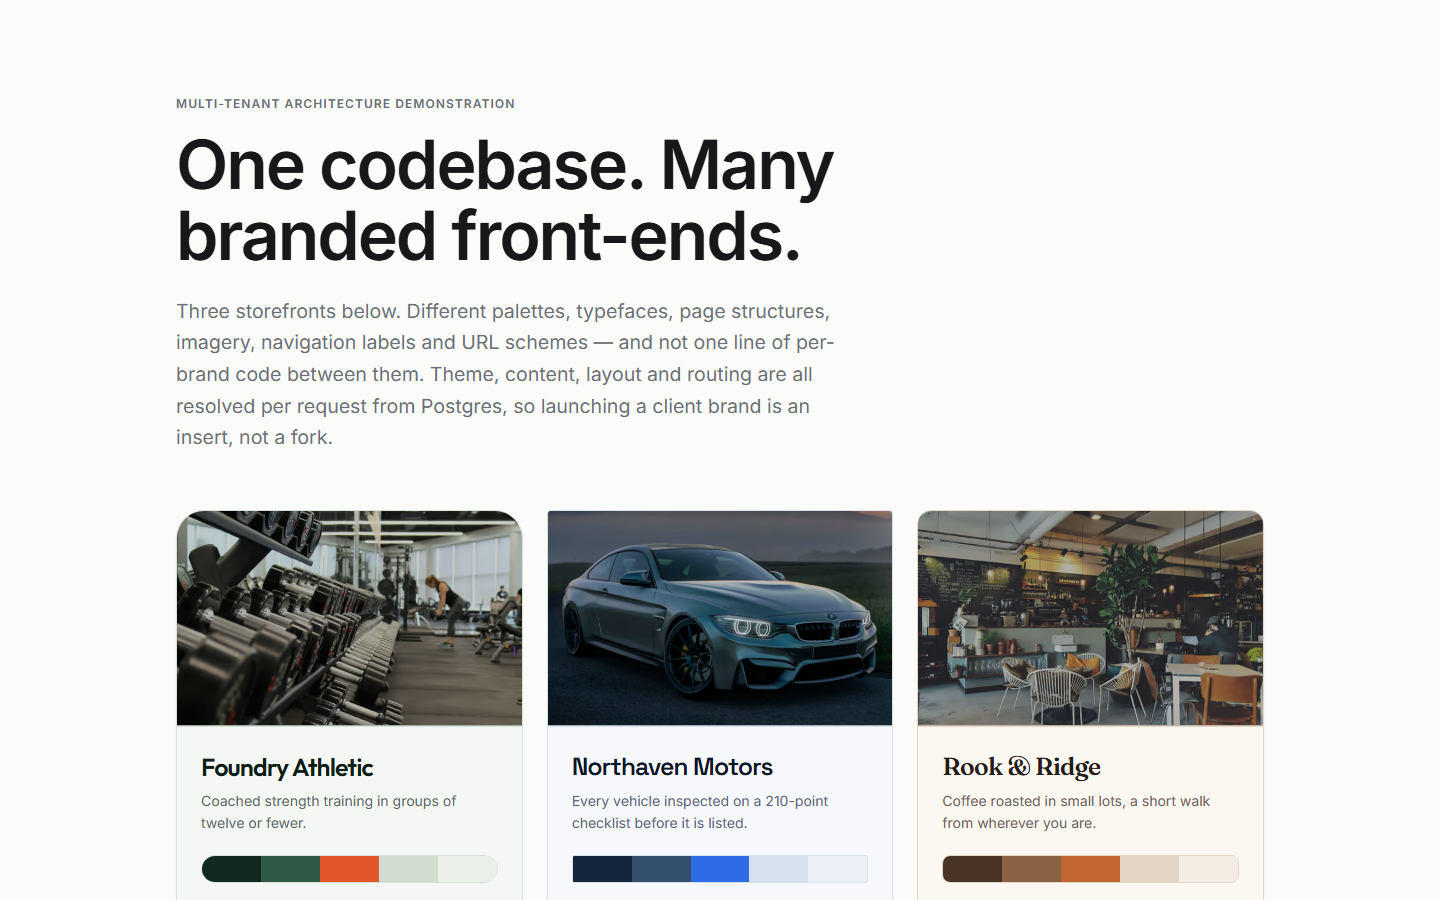
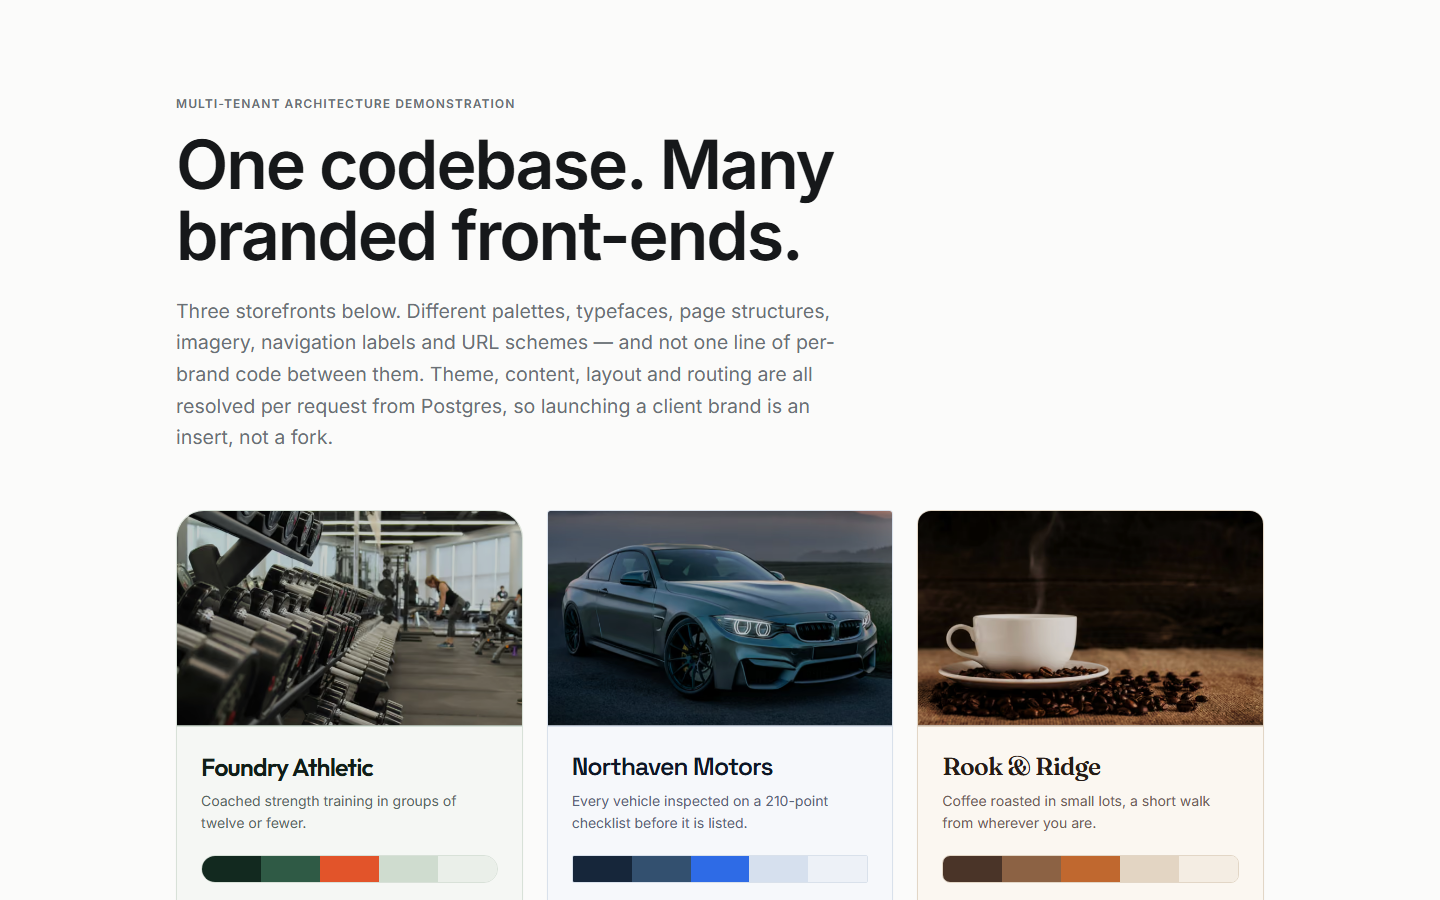
Swap Rook & Ridge hero and index card; wire supplied pickup photography
The cafe interior returns to the hero, contained rather than full-bleed and
larger than it originally was. At 56vw a wide establishing shot dominated the
headline instead of supporting it; the close cup shot moves to the index card,
where a tight crop reads better at card size.

The two Haulmark listings now use the supplied pickup photographs instead of
the large SUVs that were standing in for them.

Changed region(s): [[0.625, 0.56, 0.875, 0.8089]]

diff --git a/src/components/HomeLayouts.tsx b/src/components/HomeLayouts.tsx
@@ -215,21 +215,20 @@ function Editorial({ tenant, featured, categories, totalVisible }: Props) {
   return (
     <>
       {/*
-        Asymmetric by construction. The photograph runs to the right edge of the
-        viewport and is taller than the text column, so it reads as an editorial
-        spread rather than an image inset beside a paragraph.
+        Asymmetric, but contained rather than full-bleed. An earlier version ran
+        the photograph to the right edge of the viewport at 56vw; a café interior
+        is a wide establishing shot and at that scale it dominated the headline
+        instead of supporting it. This sits between the two: the image column is
+        a little wider than the copy column and the picture is taller than it was
+        originally, so it carries weight without taking over.
 
-        This is a two-column grid rather than an absolutely positioned image: at
-        56vw the absolute version overlapped the centred text container and
-        clipped the headline. A grid track cannot overlap its sibling, so the
-        failure is structurally impossible rather than tuned around.
-
-        The left padding reproduces where `max-w-6xl mx-auto` would put the
-        container edge, so the copy still lines up with every section below it.
+        Still a grid rather than an absolutely positioned image — the absolute
+        version overlapped the centred container and clipped the headline, and a
+        grid track cannot overlap its sibling.
       */}
-      <section className="lg:grid lg:grid-cols-[minmax(0,1fr)_56%] lg:items-stretch">
-        <div className="px-5 pb-12 pt-12 sm:px-8 sm:pt-16 lg:py-24 lg:pl-[max(2rem,calc((100vw-72rem)/2))] lg:pr-12">
-          <div className="rise lg:max-w-[34rem]">
+      <section className="mx-auto w-full max-w-6xl px-5 pb-16 pt-12 sm:px-8 sm:pb-24 sm:pt-20">
+        <div className="grid items-center gap-10 lg:grid-cols-[minmax(0,1fr)_minmax(0,1.08fr)] lg:gap-14">
+          <div className="rise">
             <Eyebrow>{tenant.name}</Eyebrow>
             <h1 className="display-type mt-5 max-w-[13ch] text-balance text-display font-semibold text-ink">
               {tenant.tagline}
@@ -244,19 +243,19 @@ function Editorial({ tenant, featured, categories, totalVisible }: Props) {
               </Cta>
             </div>
           </div>
-        </div>
 
-        <ProductImage
-          src={tenant.heroImage}
-          alt=""
-          seed={tenant.name.length * 7919}
-          treatment={treatment}
-          hero
-          priority
-          tint="soft"
-          className="rise rise-2 aspect-[4/3] w-full border-y border-hairline shadow-brand-lift sm:aspect-[16/9] lg:aspect-auto lg:min-h-[34rem] lg:rounded-l-brand-xl lg:border lg:border-r-0"
-          sizes="(max-width: 1024px) 100vw, 56vw"
-        />
+          <ProductImage
+            src={tenant.heroImage}
+            alt=""
+            seed={tenant.name.length * 7919}
+            treatment={treatment}
+            hero
+            priority
+            tint="soft"
+            className="rise rise-2 aspect-[4/3] w-full rounded-brand-xl border border-hairline shadow-brand-lift lg:aspect-[5/4]"
+            sizes="(max-width: 1024px) 100vw, 52vw"
+          />
+        </div>
       </section>
 
       {lead && (

diff --git a/prisma/seed.ts b/prisma/seed.ts
@@ -45,9 +45,9 @@ const rookRidge = {
   ctaLabel: "See the menu",
   catalogSlug: "menu",
   layoutVariant: "editorial",
-  heroImage: "https://images.unsplash.com/photo-1497515114629-f71d768fd07c",
+  heroImage: "https://images.unsplash.com/photo-1554118811-1e0d58224f24",
   bandImage: "https://images.unsplash.com/photo-1509440159596-0249088772ff",
-  cardImage: "https://images.unsplash.com/photo-1554118811-1e0d58224f24",
+  cardImage: "https://images.unsplash.com/photo-1497515114629-f71d768fd07c",
   theme: {
     primary: "#4A3428",
     primaryInk: "#FFFFFF",
@@ -293,7 +293,7 @@ const northaven = {
     },
     {
       slug: "haulmark-1500",
-      imageUrl: "https://images.unsplash.com/photo-1563720223185-11003d516935",
+      imageUrl: "/vehicles/fordpickup.png",
       name: "Haulmark 1500",
       blurb: "Half-ton pickup. 3.5L V6, 4x4.",
       description:
@@ -303,7 +303,7 @@ const northaven = {
     },
     {
       slug: "haulmark-2500-hd",
-      imageUrl: "https://images.unsplash.com/photo-1533473359331-0135ef1b58bf",
+      imageUrl: "/vehicles/ram.jpg",
       name: "Haulmark 2500 HD",
       blurb: "Three-quarter ton. Diesel.",
       description:
@@ -364,7 +364,7 @@ const northaven = {
     },
     {
       slug: "haulmark-1500-cpo-2020",
-      imageUrl: "https://images.unsplash.com/photo-1563720223185-11003d516935",
+      imageUrl: "/vehicles/ram.jpg",
       name: "Haulmark 1500 — Certified, 2020",
       blurb: "112,000 km. Fleet-maintained.",
       description:
